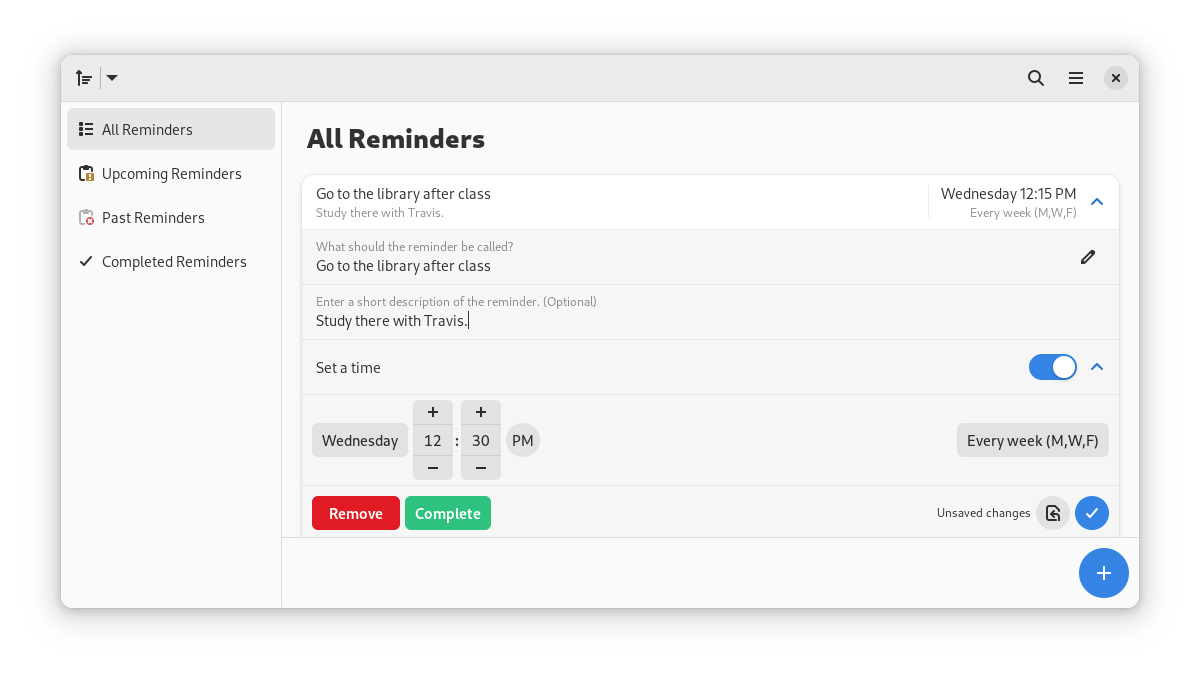
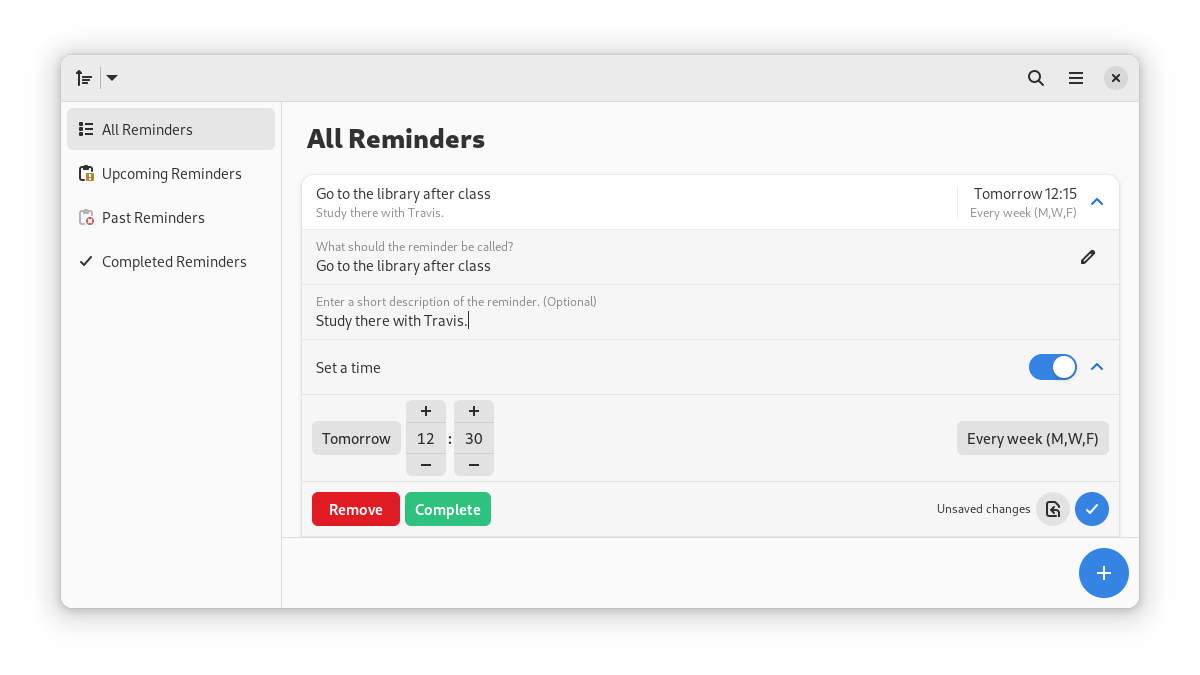
Update service doc, fix issue with calendar, small UI improvements

diff --git a/src/browser/resources/stylesheet.css b/src/browser/resources/stylesheet.css
@@ -32,7 +32,7 @@ label.time {
 }
 
 spinbutton button {
-    padding: 2px;
+    padding: 1px;
     min-height: 20px;
     min-width: 20px;
 }

diff --git a/src/browser/reminder.py b/src/browser/reminder.py
@@ -119,11 +119,13 @@ class Reminder(Adw.ExpanderRow):
         self.completed_icon_box.set_visible(self.completed)
 
         self.add_action(self.label_box)
-        label_box_parent = self.label_box.get_parent()
-        label_box_parent.set_hexpand(True)
-        label_box_parent.get_parent().set_vexpand(True)
-        label_box_parent.set_valign(Gtk.Align.FILL)
-        label_box_parent.set_halign(Gtk.Align.END)
+        actions_box = self.label_box.get_parent()
+        suffixes_box = actions_box.get_parent()
+        actions_box.set_hexpand(True)
+        actions_box.set_vexpand(False)
+        suffixes_box.set_vexpand(True)
+        actions_box.set_valign(Gtk.Align.FILL)
+        actions_box.set_halign(Gtk.Align.END)
         self.update_label()
 
         self.past_due = Gtk.Image(icon_name='task-past-due-symbolic', visible=False)
@@ -131,7 +133,6 @@ class Reminder(Adw.ExpanderRow):
 
         separator = Gtk.Separator.new(Gtk.Orientation.VERTICAL)
         self.add_action(separator)
-        separator.set_hexpand(True)
         separator.set_halign(Gtk.Align.START)
         self.refresh_time()
 
@@ -592,7 +593,7 @@ class TimeRow(Gtk.ListBoxRow):
         elif reminder_week == week:
             date = '%A'
         elif long:
-            date = '%d %b %Y'
+            date = '%d %B %Y'
         else:
             date = '%x'
         return date
@@ -604,7 +605,7 @@ class TimeRow(Gtk.ListBoxRow):
             time = '%H:%M'
         return time
 
-    def set_time_format(self, key = None, data = None):
+    def set_time_format(self):
         setting = self.settings.get_enum('time-format')
         if setting == 0:
             if time.strftime('%p'):
@@ -616,7 +617,7 @@ class TimeRow(Gtk.ListBoxRow):
         elif setting == 2:
             self.enable_24h()
 
-    def update_time_format(self):
+    def update_time_format(self, key = None, data = None):
         self.set_time_format()
         self.parent_reminder.set_time_label()
 
@@ -740,8 +741,8 @@ class TimeRow(Gtk.ListBoxRow):
         self.update_repeat_day()
 
     @Gtk.Template.Callback()
-    def day_changed(self, calendar):
-        date = calendar.get_date()
+    def day_changed(self, calendar = None, day = None):
+        date = self.calendar.get_date()
         new_day = date.get_day_of_year()
         old_day = self.time.get_day_of_year()
         days = new_day - old_day
@@ -898,7 +899,7 @@ class RepeatDialog(Adw.Window):
         return repeat_type, repeat_frequency, repeat_days, repeat_until, repeat_times
 
     @Gtk.Template.Callback()
-    def day_changed(self, calendar = None):
+    def day_changed(self, calendar = None, data = None):
         self.repeat_until_label.set_label(self.calendar.get_date().format('%d %b %Y'))
 
     @Gtk.Template.Callback()

diff --git a/REMEMBRANCE_SERVICE.md b/REMEMBRANCE_SERVICE.md
@@ -1,11 +1,11 @@
-# Remembrance DBus Service Info, version 0.5
+# Reminders DBus Service Info, version 1.0
 name: io.github.dgsasha.Remembrance.Service1
 
 interface: io.github.dgsasha.Remembrance.Service1.Reminders
 
 object: /io/github/dgsasha/Remembrance/Service1
 
-Currently this is only packaged with Remembrance and anyone who wants to use it will have to have the full Remembrance app installed. The reason this exists is to allow integrating the Remembrance app with desktop environments through extensions.
+Currently this is only packaged with Reminders and anyone who wants to use it will have to have the full Reminders app installed. The reason this exists is to allow integrating the Reminders app with desktop environments through extensions.
 
 At some point I might seperate this from Remembrance and offer it as a standalone library, but until then you probably shouldn't use it if you are making your own reminder app.
 
@@ -14,14 +14,14 @@ This service will have some breaking changes made to it at times, so make sure y
 Newer versions of this service should still always be compatible with apps that expect an older version. If this ever changes, the bus name will be updated
 
 ## Enums
-### RepeatType(IntEnum)
+### RepeatType
 - DISABLED = 0
 - MINUTE = 1
 - HOUR = 2
 - DAY = 3
 - WEEK = 4
 
-### RepeatDays(IntFlag)
+### RepeatDays
 - MON = 1
 - TUE = 2
 - WED = 4
@@ -38,7 +38,7 @@ Newer versions of this service should still always be compatible with apps that 
         - Type: s
         - Explanation [here](#app_id-parameter)
     - reminder
-        - type a{sv}
+        - Type: a{sv}
         - {'title': s, 'description': s, 'timestamp': u, 'repeat-type': q, 'repeat-frequency': q, 'repeat-days': q, 'repeat-times': n, 'repeat-until': u}
         - 'timestamp' and 'repeat-until' should be a Unix timestamp, set them to 0 to disable them
         - 'repeat-times' should be -1 if you don't want to limit the repeat times
@@ -54,7 +54,7 @@ Newer versions of this service should still always be compatible with apps that 
         - Type: s
         - Explanation [here](#app_id-parameter)
     - reminder
-        - type a{sv}
+        - Type: a{sv}
         - {'id': s, 'title': s, 'description': s, 'timestamp': u, 'repeat-type': q, 'repeat-frequency': q, 'repeat-days': q, 'repeat-times': n, 'repeat-until': u}
         - 'id' is the id of the reminder returned by AddReminder or ReturnReminders
         - 'timestamp' and 'repeat-until' should be a Unix timestamp, set them to 0 to disable them
